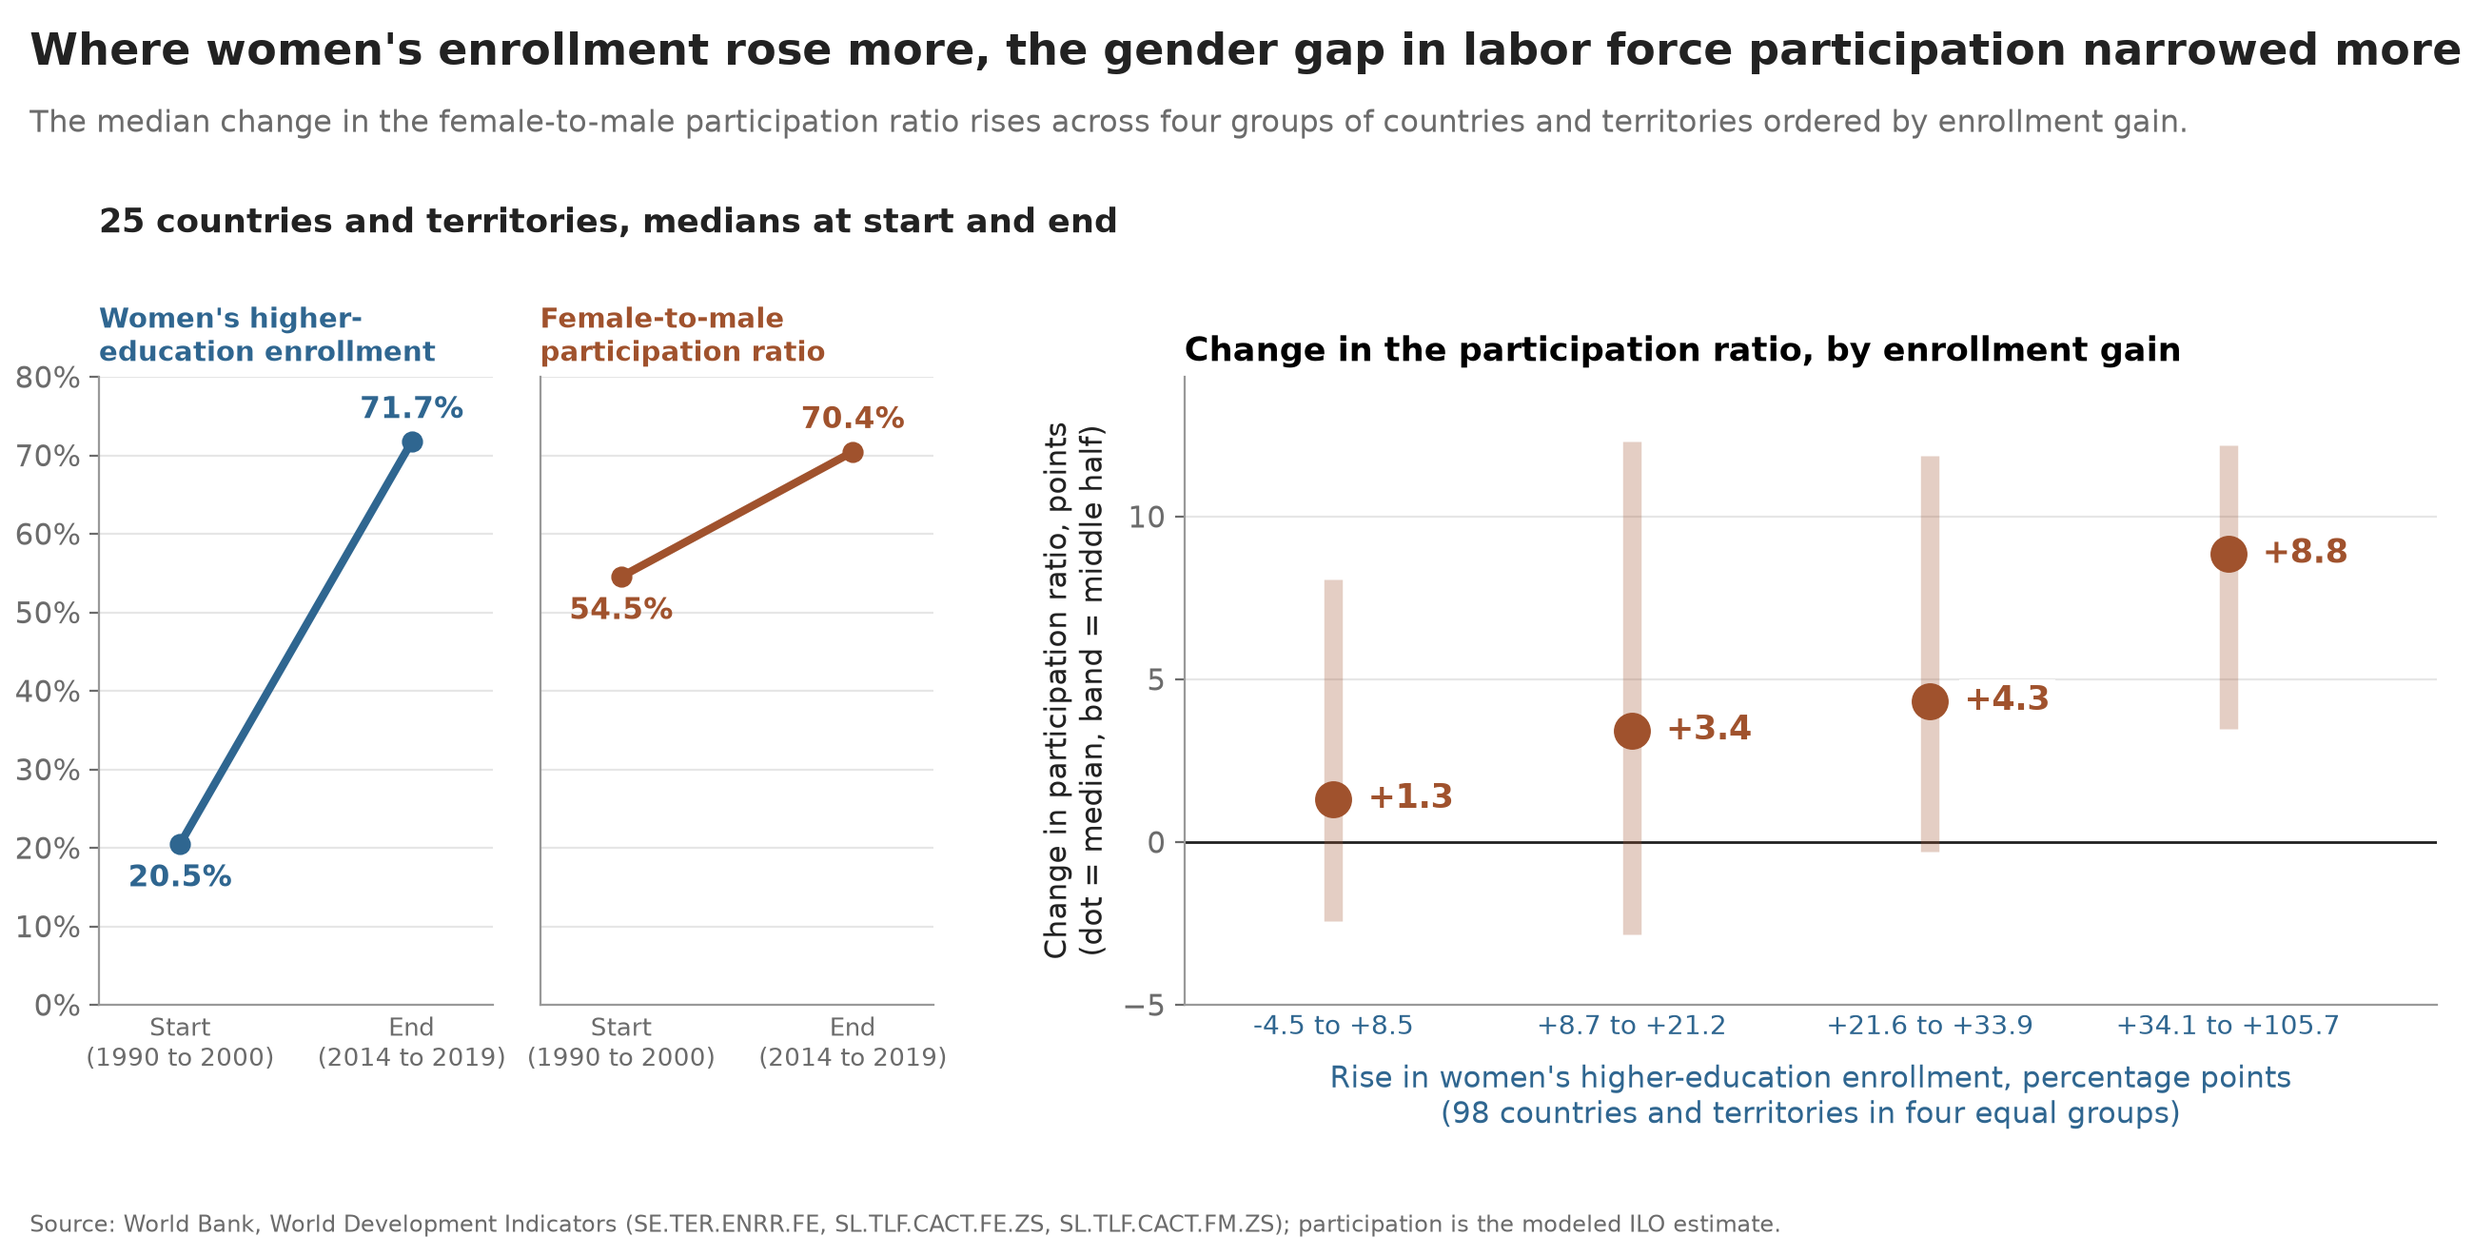
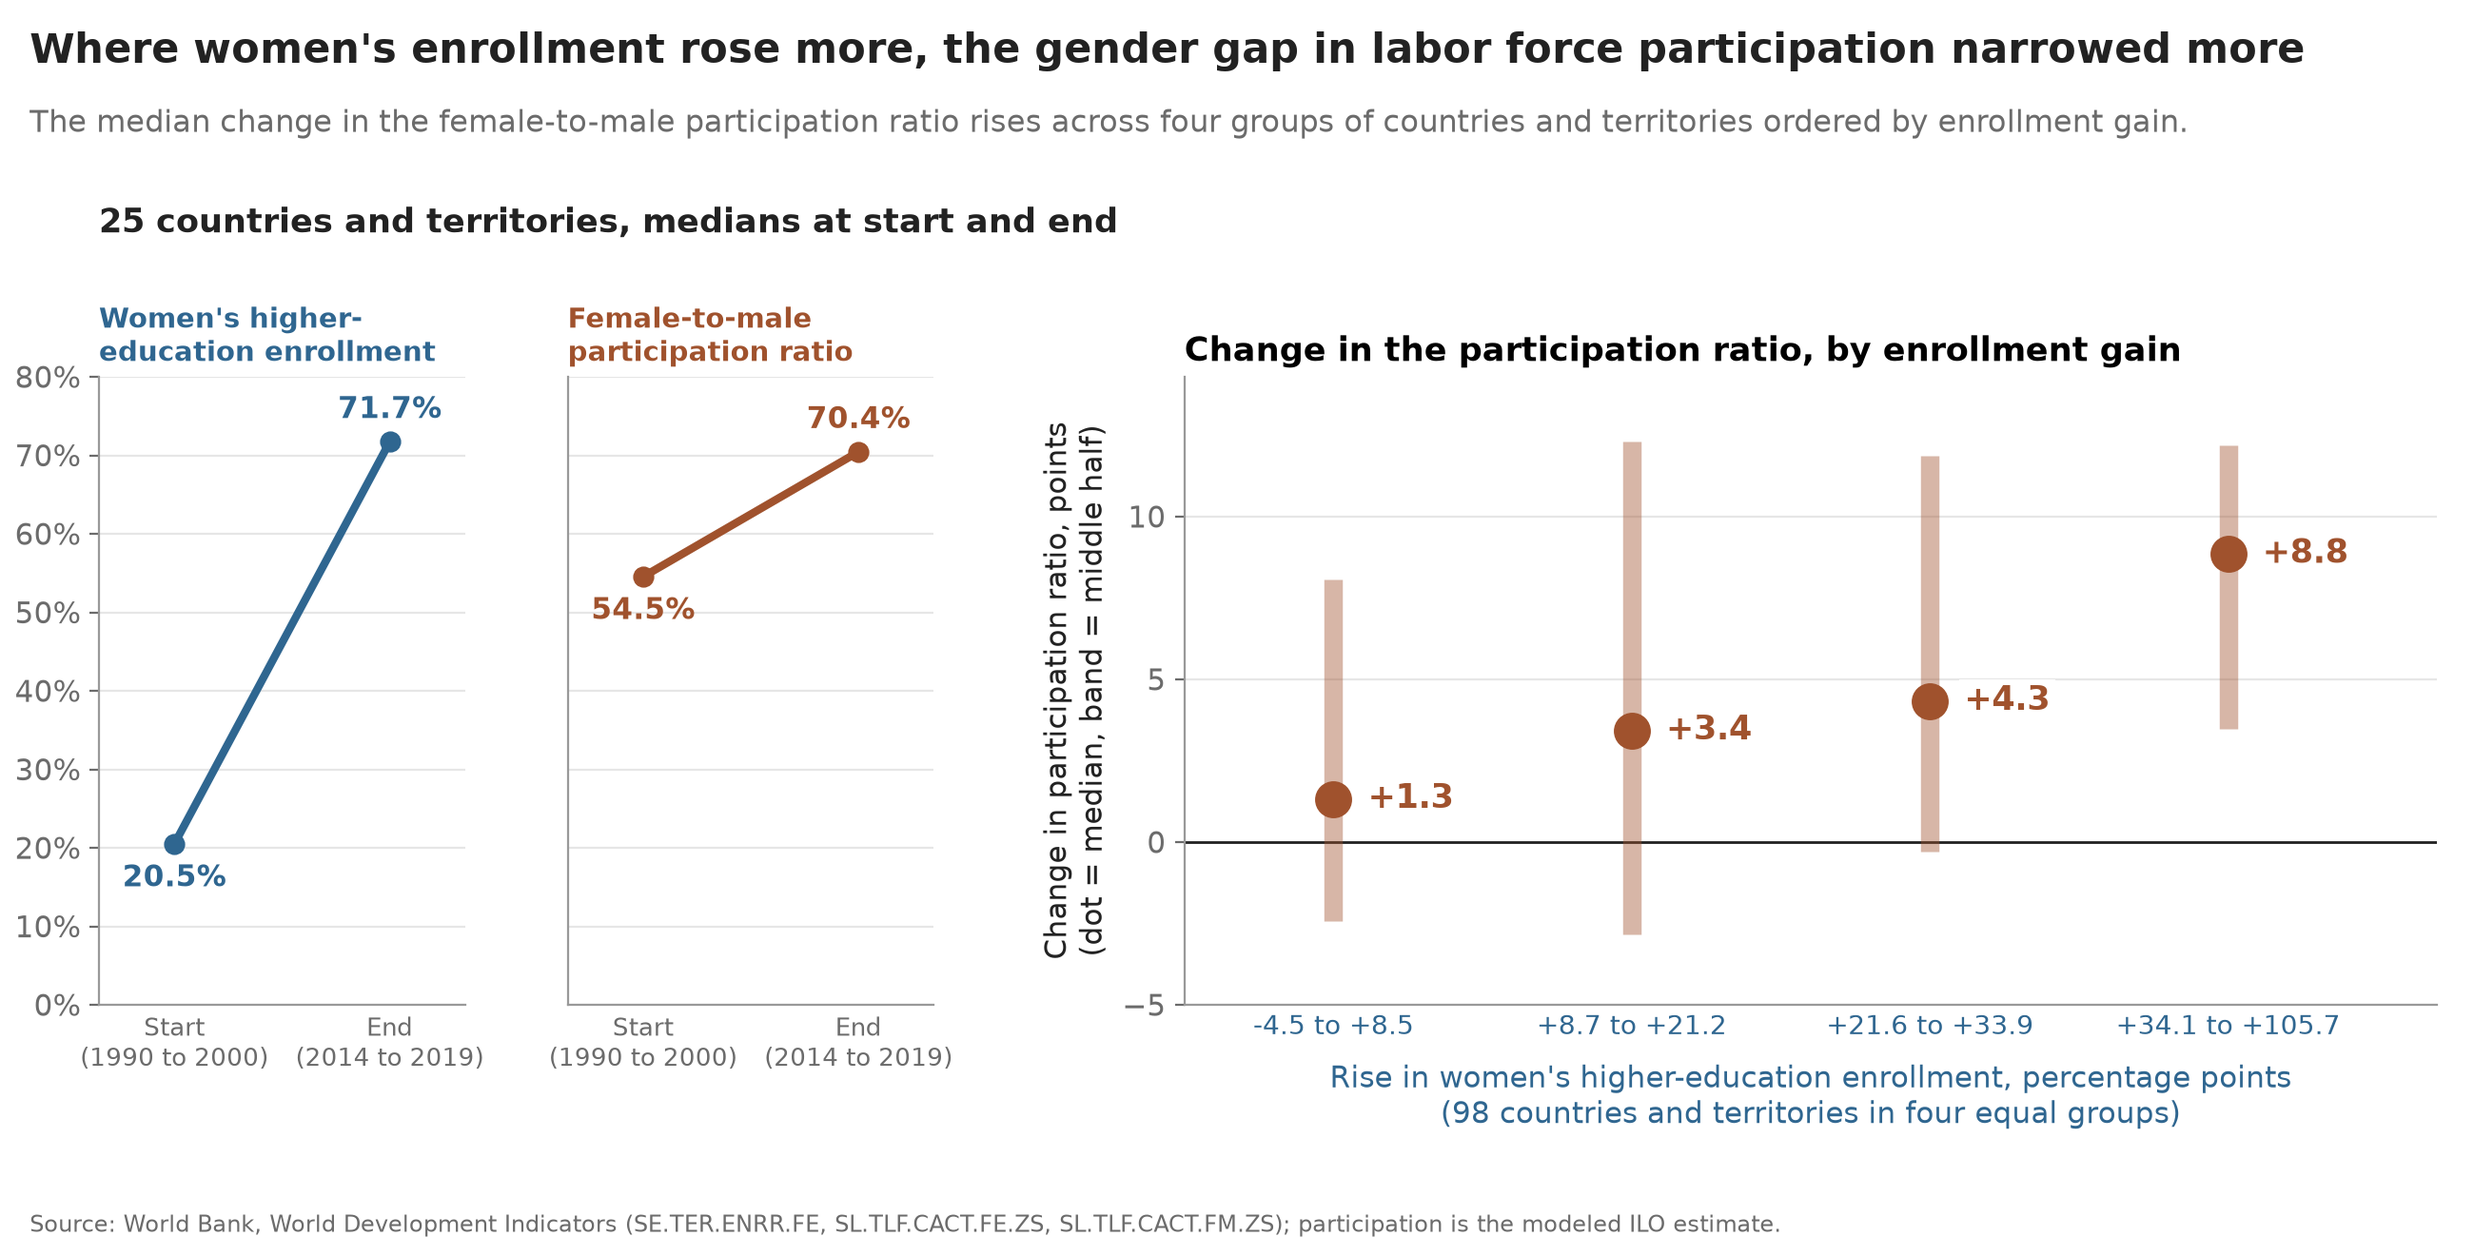
Project 2: round 4 red-team fixes (89-of-187 wording, reflection/decision consistency, honest scatter rationale, chart spacing and labels)

diff --git a/projects/project2-women-work/index.html b/projects/project2-women-work/index.html
@@ -23,7 +23,7 @@
                 font: 100%/1.5 system-ui;
                 counter-reset: figure;
                 background: var(--color-neutral-95);
-                max-width: min(75vw, 80em);
+                max-width: min(90vw, 80em);
                 margin: 0 auto;
             }
 
@@ -206,7 +206,7 @@
             <p>
                 Sample: the world lines use the World Bank's own world aggregate. The per-country panels keep the 98
                 countries and territories that report all three indicators in some year from 1990 to 2000 and in some
-                year from 2014 to 2019. The other 89 lack data in one window and are dropped.
+                year from 2014 to 2019. Of the 187 economies with participation data, the other 89 lack at least one indicator in one of the two windows and are dropped.
             </p>
 
             <section>
@@ -218,7 +218,7 @@
                             src="for_education_not_work.png"
                             width="2600"
                             height="1320"
-                            alt="Left: world line chart from 1990 to 2019 in which women's higher-education enrollment rises from 13% to 41% whilst women's labor force participation falls from 51% to 48%. Right: two histograms over the same 98 countries and territories on a shared percentage-point axis; enrollment changes spread from about -5 to over 100 points with a median of +21, whereas participation changes cluster around 0 with a median of +1.0. Callouts read: down 3 points since 1990; median country +21 points; median country +1 point."
+                            alt="Left: world line chart from 1990 to 2019 in which women's higher-education enrollment rises from 13% to 41% while women's labor force participation falls from 51% to 48%. Right: two histograms over the same 98 countries and territories on a shared percentage-point axis; enrollment changes spread from about -5 to over 100 points with a median of +21, whereas participation changes cluster around 0 with a median of +1.0. Callouts read: down 3 points since 1990; median country +21 points; median country +1 point."
                         />
                     </a>
                     <figcaption>
@@ -237,7 +237,7 @@
                         <strong>Enrollment and participation drawn on one percentage axis (score: -1).</strong> The left panel places both world series on a single 0% to 60% scale, which invites the reader to
                         compare the rising blue line with the flat brown line directly. That is deceptive here because the
                         two measures have different denominators: gross tertiary enrollment is measured against the
-                        university-age cohort (and can exceed 100%), whilst participation is measured against all women
+                        university-age cohort (and can exceed 100%), while participation is measured against all women
                         aged 15 and over. Two different measures on one scale invite a comparison of levels, and the gap
                         then looks like one series failing to follow the other. The opposing chart draws its two measures in
                         separate, separately titled panels and scores +1.5. A pair of separate panels would have removed the false comparison of levels, but the gap between the two lines then reads far less directly, and that gap is what carries the claim, so we kept the shared axis.
@@ -253,15 +253,15 @@
                         <strong>Paired histograms of per-country change on one shared axis (score: +1).</strong> For each of the 98 countries and territories we compute the percentage-point change in enrollment
                         and in participation, bin both into 5-point intervals, and stack the two histograms over the same
                         x-axis, with zero and the median marked. The persuasion comes from the contrast in spread: the
-                        enrollment distribution stretches far to the right whilst the participation distribution stays
+                        enrollment distribution stretches far to the right while the participation distribution stays
                         piled around zero. We score this as earnest, because it shows every retained country rather than
-                        chosen examples. A single scatter plot of the two changes would have shown how each country moved on both measures at once. With 98 overlapping points, however, the difference in spread is harder to see at a glance, so we kept the stacked histograms.
+                        chosen examples. A single scatter plot of the two changes would have shown how each country moved on both measures at once. With 98 overlapping points, however, the difference in spread is harder to see at a glance, The histograms make that contrast plain, which is why they stayed.
                     </li>
                     <li>
                         <strong>Median callouts in place of a fuller summary (score: -1).</strong> The two histograms carry only "Median country: +21 points" and "Median country: +1 point", which
                         invites the reader to set 21 against 1 and read the second as stagnation. In fact 58 of the 98
-                        raised women's participation, by as much as 17.2 points, whilst 40 saw it fall. Both medians are
-                        accurate, but nothing on the chart shows that a majority of countries gained, and these counts
+                        raised women's participation, by as much as 17.2 points, while 40 saw it fall. Both medians are
+                        accurate, but nothing on the chart states that a majority gained, and the histogram centered near zero reads as stagnation, and these counts
                         appear only in this write-up. Printing the count of gaining countries on each panel would have told the reader at once that most countries gained. It would also have blunted the contrast between 21 and 1, so we left the counts for this write-up.
                     </li>
                     <li>
@@ -269,7 +269,7 @@
                         slipped", is accurate for the world lines it opens with (13% to 41%, and 51% to 48%) and uses
                         calm language. The slant comes only from framing the whole figure on the world totals, whereas the median
                         country in the right-hand panel gained one point. We score this as only mildly deceptive, since
-                        the statement is true and the median callout shows that one-point gain. A title naming the median country change would have been more representative of the right-hand panel. It is a flatter sentence and would not have led the reader through the world lines first, so we kept the world framing.
+                        the statement is true and the median callout shows that one-point gain. A title naming the median country change would have been more representative of the right-hand panel. It is a flatter sentence and would not have led the reader through the world lines first. That is why the title stays on the world totals.
                     </li>
                 </ul>
             </section>
@@ -312,7 +312,7 @@
                     <li>
                         <strong>Two small panels on one 0 to 80% scale (score: +1.5).</strong> Enrollment and the participation ratio are different measures, so we draw them in separate,
                         separately titled panels. Both share a 0 to 80% scale starting at zero, so the two changes can be
-                        compared in size, whilst the separate titles make clear that the levels are not comparable. This is
+                        compared in size, while the separate titles make clear that the levels are not comparable. This is
                         what distinguishes it from the single overlaid axis in the supporting chart (-1), so we regard it as
                         earnest. Two lines crossing on one plot would have been compact and would have shown the timing of both changes together. They also invite a comparison of levels that means nothing for two different measures, so we chose separate panels.
                     </li>
@@ -322,7 +322,7 @@
                         gender gap and is defined in the caption, but it can rise simply because men's participation falls,
                         and the world female rate declined from 51% to 48% over the same years. Hiding the
                         alternative is the same omission as in the supporting chart, so it receives the same score.
-                        Showing women's own rate beside the ratio would have given a fuller and more honest account of work. The two measures disagree, which complicates the conclusion, so we kept only the ratio.
+                        Showing women's own rate beside the ratio would have given a fuller and more honest account of work. The two measures disagree, which complicates the conclusion. Showing only the ratio avoids that, at the cost of the fuller picture.
                     </li>
                     <li>
                         <strong>Group medians with middle-half bands (score: -1.5).</strong> We split the 98 into four equal groups by enrollment gain and plot each group's median change in
@@ -332,7 +332,7 @@
                         whose ratio rose (60%, 54%, 71% and 80%), so a smaller share of the second group rose than of the
                         first (54% against 60%). The top group is the only one whose middle half lies wholly above zero (+3.5 at its lower
                         quartile), which the chart does not mark and this write-up notes, and it spans far more of the enrollment range than the
-                        other three. We score it as clearly deceptive because the chart announces none of this. A scatter of all 98 countries would have shown the weak 0.18 correlation honestly, but at 98 overlapping points it is hard to read at a glance, which is also why we chose group medians.
+                        other three. We score it as clearly deceptive because the chart announces none of this. A scatter of all 98 countries would have shown the weak 0.18 correlation honestly, but it would also have exposed how weak the relationship is and undone the clean upward pattern, so we chose group medians.
                     </li>
                     <li>
                         <strong>Title framed as an association (score: -0.5).</strong> The title, "Where women's enrollment rose more, the gender gap in labor force participation
@@ -340,7 +340,7 @@
                         to infer that education caused the narrowing, which cross-country data cannot show, and "the gap
                         narrowed" does not say whether women rose or men fell. We score this as mildly deceptive, since
                         the wording is literally accurate and the subtitle states that the comparison is between medians.
-                        A title stating only that the medians differ by group would have been the more cautious wording and harder to read as causal. It is also flatter and less persuasive as a headline, so we kept the association wording.
+                        A title stating only that the medians differ by group would have been the more cautious wording and harder to read as causal. It is also flatter and less persuasive as a headline. The association wording is the more persuasive of the two.
                     </li>
                 </ul>
             </section>
@@ -379,7 +379,7 @@
                 <p>
                     We now see ethical analysis and visualization as work where a reader could tell, from the chart and
                     its notes, the main ways a different reasonable analysis would have reached a different conclusion.
-                    By that standard, the middle-half bands and the disclosures in this write-up are the earnest parts
+                    By that standard, the disclosures in this write-up and the labelled enrollment ranges on the group axis are the earnest parts
                     of our project. It is worth mentioning that most of those disclosures sit beside the charts rather
                     than on them, so a reader who only looks at the image never sees them. Leaving out the ratio from the
                     first chart and women's own rate from the second does not meet this standard. Both charts also treat
@@ -389,7 +389,7 @@
                 <p>
                     For us, acceptable persuasion points the reader at something that is really in the data, for example
                     through emphasis, ordering or a clear headline. None of our deceptive choices needed a truncated axis
-                    or a false number: every percentage axis starts at zero and every figure cites its source. The line
+                    or a false number: every percentage axis starts at zero and every data figure cites its source. The line
                     is crossed when a choice only works if the reader does not know the alternative. Picking a measure,
                     a group or a summary because the obvious option weakens the case is misleading even when every number
                     is correct. Median callouts that make modest gains look like stagnation, a best-case group shown

diff --git a/projects/project2-women-work/make_charts.py b/projects/project2-women-work/make_charts.py
@@ -124,7 +124,7 @@ def footer(fig):
 
 
 def headline(fig, title: str, sub: str):
-    fig.suptitle(title, x=0.012, y=0.975, ha="left", fontsize=16.5, fontweight="bold", color=INK)
+    fig.suptitle(title, x=0.012, y=0.975, ha="left", fontsize=15.5, fontweight="bold", color=INK)
     fig.text(0.012, 0.895, sub, ha="left", fontsize=11.5, color=MUTED)
 
 
@@ -169,6 +169,7 @@ def chart_for(df: pd.DataFrame, ch: pd.DataFrame) -> dict:
                 arrowprops=dict(arrowstyle="-", color=WORK, lw=0.8))
     ax.set_xlim(1986, 2023.5)
     pct_axis(ax, 60)
+    ax.set_ylabel("Percent", color=MUTED, fontsize=9.5)
     ax.set_title("The world, 1990 to 2019")
 
     # Right: same places, distribution of each computed change on one shared points axis.
@@ -230,7 +231,7 @@ def chart_against(df: pd.DataFrame, ch: pd.DataFrame) -> dict:
              "ordered by enrollment gain.")
 
     # Left: the largest-rise group, education and work in two small panels on one shared 0-80% scale.
-    left = outer[0, 0].subgridspec(1, 2, wspace=0.12)
+    left = outer[0, 0].subgridspec(1, 2, wspace=0.28)
     axl = [fig.add_subplot(left[0, 0])]
     axl.append(fig.add_subplot(left[0, 1], sharey=axl[0]))
     for a, (c0, c1), color, name in [(axl[0], ("e0", "e1"), EDU, "Women's higher-\neducation enrollment"),
@@ -261,7 +262,7 @@ def chart_against(df: pd.DataFrame, ch: pd.DataFrame) -> dict:
     x = np.arange(len(grp))
     ytop = grp.p75.max() + 2
     for i, r in grp.iterrows():
-        ax2.plot([i, i], [r.p25, r.p75], color=WORK, lw=7, alpha=0.28, solid_capstyle="butt")
+        ax2.plot([i, i], [r.p25, r.p75], color=WORK, lw=7, alpha=0.42, solid_capstyle="butt")
         ax2.plot(i, r.med, "o", color=WORK, ms=13, zorder=3)
         ax2.annotate(f"{r.med:+.1f}", (i, r.med), xytext=(13, 0), textcoords="offset points", ha="left",
                      va="center", fontsize=12.5, fontweight="bold", color=WORK,
